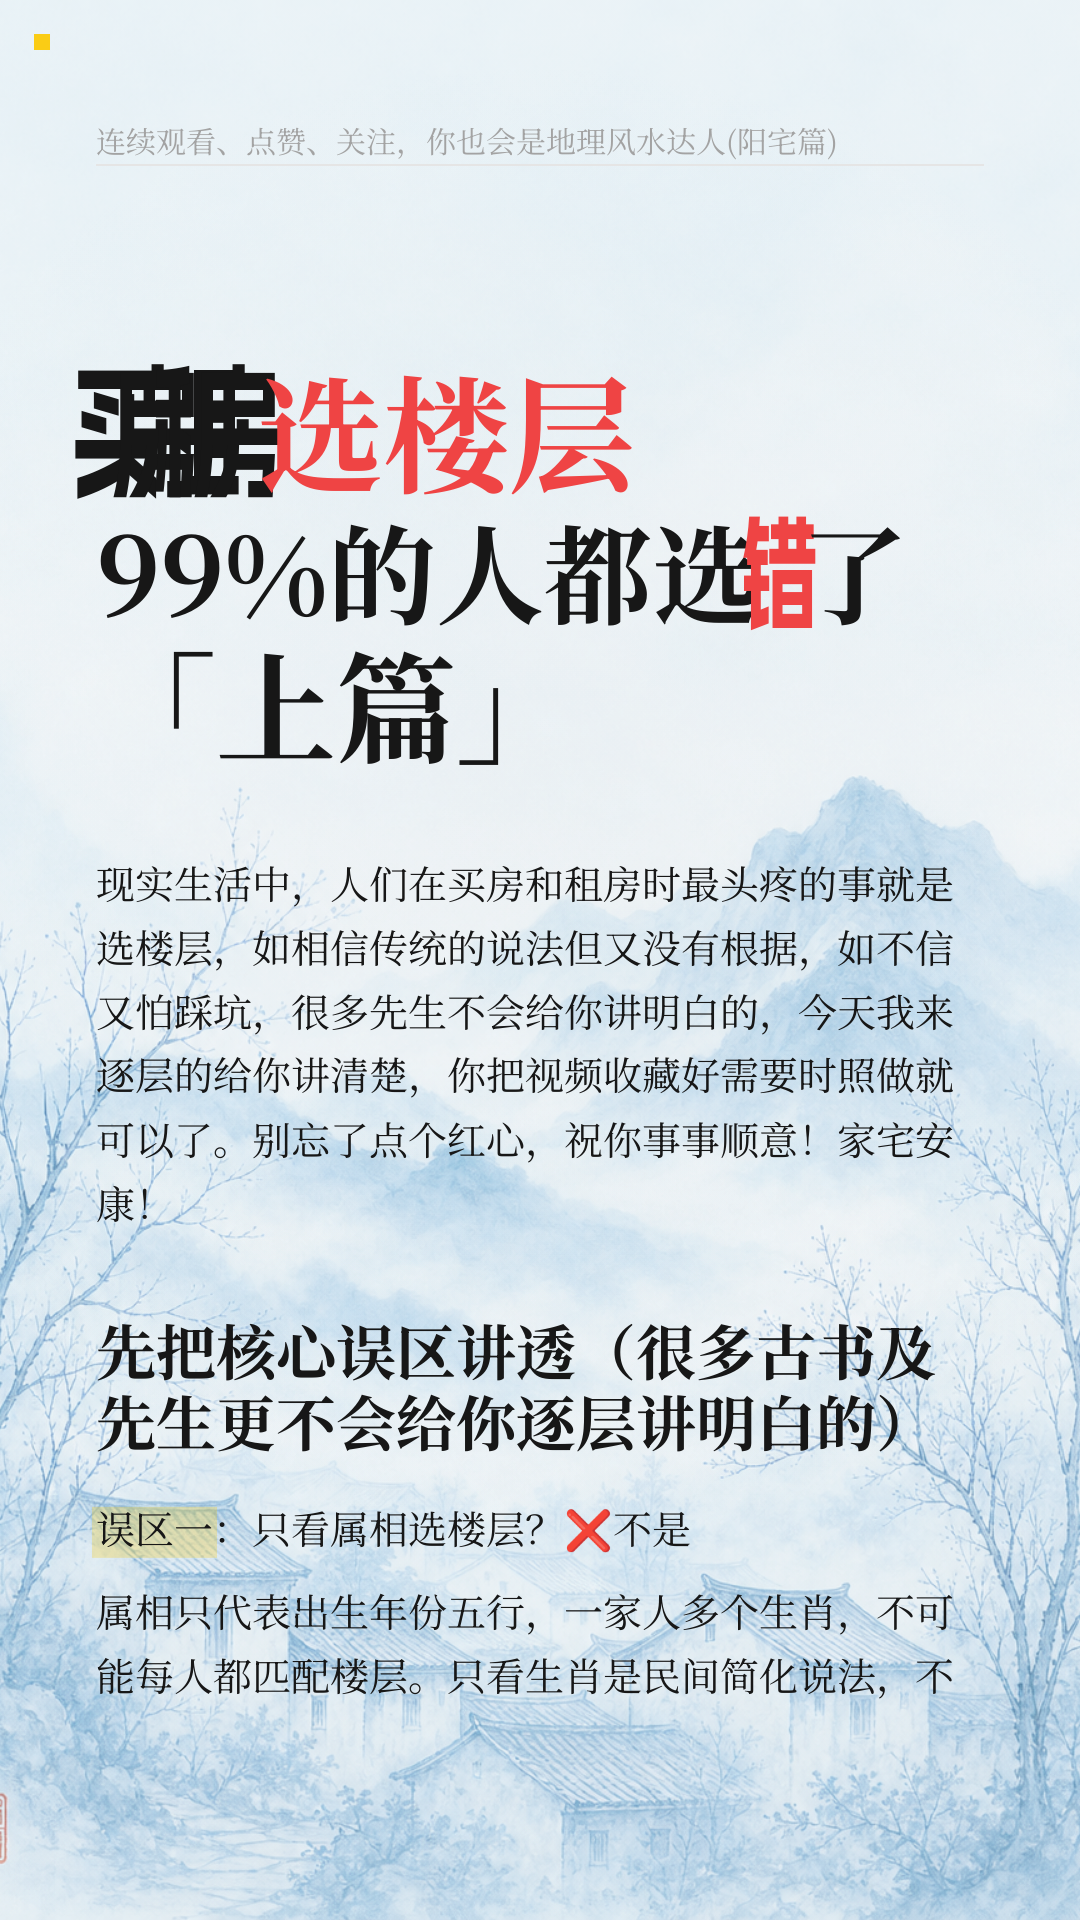
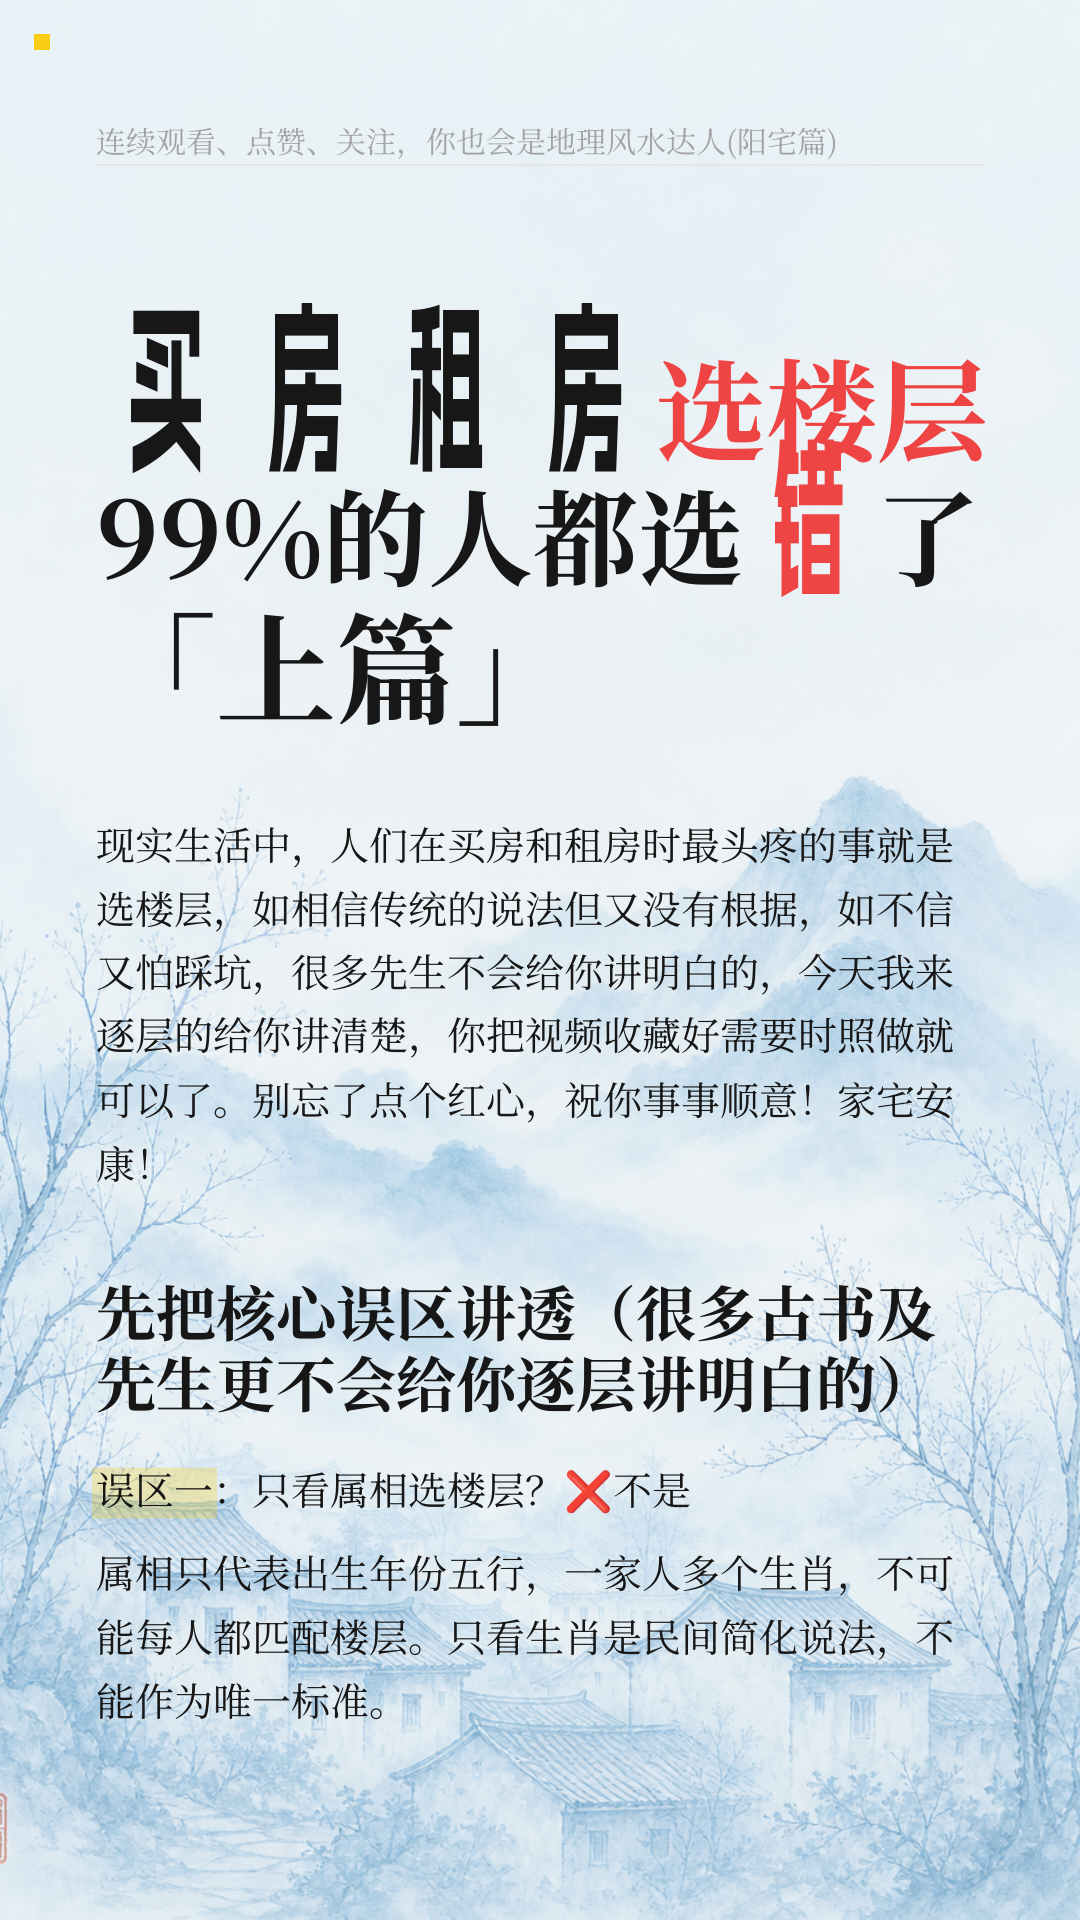
fix(graphic-text): 修复标题强调字叠字与字距，加大纵向拉伸
- measureText 为 0 时回退，避免 scale 字全部叠在一起
- 强调字两侧加空隙，缩字号测量计入 scale/gap
- scaleY 提到 1.65，更易看出纵向拉高

Changed region(s): [[0.0611, 0.4375, 0.8861, 0.9062], [0.0611, 0.1562, 0.9167, 0.4062], [0.825, 0.8125, 0.8861, 0.875]]

diff --git a/src/features/graphic-text/exportGraphicPages.ts b/src/features/graphic-text/exportGraphicPages.ts
@@ -19,7 +19,7 @@ import type { GraphicTextConfig, GraphicTextPage, MarkdownBlock } from './types'
 import { getFontById } from '../../data/fonts'
 import { ensureFontReady } from '../../utils/fontLoad'
 import { buildCharHighlightColorSegments, stripHighlightMarkers, themeAlpha } from './inlineHighlight'
-import { parseGlyphEmphasis } from './glyphEmphasis'
+import { parseGlyphEmphasis, GLYPH_EMPHASIS_SIDE_GAP_RATIO } from './glyphEmphasis'
 import { blockHasHighlightInMap, resolveBlockHighlightColor } from './highlightColors'
 import { TOP_BAR_FONT_SIZE_PX } from './graphicPreviewLayout'
 import {
@@ -82,20 +82,32 @@ interface LineSegment {
 function measureGlyphAdvance(
   ctx: CanvasRenderingContext2D,
   char: string,
-  baseFont: string,
+  fontSize: number,
   emphasisRaw: string | undefined,
 ) {
   const emphasis = parseGlyphEmphasis(emphasisRaw)
   if (!emphasis) return ctx.measureText(char).width
+
   const prev = ctx.font
-  // baseFont like `700 56px "Noto Serif SC", serif`
-  const weightSize = prev.match(/^(\d+)\s+([\d.]+)px\s+/) 
+  const weightSize = prev.match(/^(\d+)\s+([\d.]+)px\s+/)
   const weight = weightSize?.[1] ?? '700'
-  const size = weightSize?.[2] ?? '56'
-  ctx.font = `${weight} ${size}px ${emphasis.fontFamily}`
-  const w = ctx.measureText(char).width * emphasis.scaleX
+  const sizePx = Number(weightSize?.[2] ?? fontSize)
+
+  // 先用强调字体量自然宽；失败（字体未就绪常为 0）则回退到当前字体 / 字号
+  ctx.font = `${weight} ${sizePx}px ${emphasis.fontFamily}`
+  let natural = ctx.measureText(char).width
+  if (!(natural > 1)) {
+    ctx.font = prev
+    natural = ctx.measureText(char).width
+  }
+  if (!(natural > 1)) {
+    natural = sizePx // CJK 全角近似
+  }
   ctx.font = prev
-  return w
+
+  const visual = natural * emphasis.scaleX
+  const sideGap = sizePx * GLYPH_EMPHASIS_SIDE_GAP_RATIO
+  return visual + sideGap * 2
 }
 
 function drawStyledLine(
@@ -130,9 +142,8 @@ function drawStyledLine(
   const baseFont = ctx.font
 
   const charAdvances = chars.map((char, i) =>
-    measureGlyphAdvance(ctx, char, baseFont, glyphEmphasis[`${blockId}:${charOffset + i}`]),
+    measureGlyphAdvance(ctx, char, fontSize, glyphEmphasis[`${blockId}:${charOffset + i}`]),
   )
-  const totalWidth = charAdvances.reduce((a, b) => a + b, 0)
 
   if (enableHighlight) {
     // brush backgrounds: walk chars for accurate emphasis widths
@@ -156,10 +167,7 @@ function drawStyledLine(
 
   // Draw text char-by-char when emphasis or per-char colors present
   if (hasEmphasis || (enableHighlight && textColorSegments.some((segment) => segment.color))) {
-    const colorAt: (string | null)[] = chars.map((_, i) => {
-      // rebuild from segments
-      return null
-    })
+    const colorAt: (string | null)[] = chars.map(() => null)
     let ci = 0
     for (const segment of textColorSegments) {
       for (const _ch of segment.text) {
@@ -174,23 +182,28 @@ function drawStyledLine(
       const emphasis = parseGlyphEmphasis(glyphEmphasis[key])
       const fill = (enableHighlight && colorAt[i]) || textColor
       ctx.fillStyle = fill
+      const advance = charAdvances[i]
       if (emphasis) {
         const weightSize = baseFont.match(/^(\d+)\s+([\d.]+)px\s+/)
         const weight = weightSize?.[1] ?? '700'
         const sizePx = Number(weightSize?.[2] ?? fontSize)
+        const sideGap = sizePx * GLYPH_EMPHASIS_SIDE_GAP_RATIO
+        const visualCenterX = drawX + sideGap + (advance - sideGap * 2) / 2
         ctx.save()
-        ctx.translate(drawX + (charAdvances[i] / 2), baselineY)
+        ctx.translate(visualCenterX, baselineY)
         ctx.scale(emphasis.scaleX, emphasis.scaleY)
         ctx.font = `${weight} ${sizePx}px ${emphasis.fontFamily}`
         ctx.textAlign = 'center'
+        ctx.textBaseline = 'alphabetic'
         ctx.fillText(char, 0, 0)
         ctx.restore()
         ctx.font = baseFont
         ctx.textAlign = 'left'
+        ctx.textBaseline = 'alphabetic'
       } else {
         ctx.fillText(char, drawX, baselineY)
       }
-      drawX += charAdvances[i]
+      drawX += advance
     }
   } else {
     ctx.fillStyle = textColor
@@ -610,11 +623,17 @@ export async function exportGraphicPages(
 ) {
   const fontIds = collectGraphicFontIds(config)
   const sample = pages.flatMap((page) => page.blocks.map((block) => block.text)).join('')
+  const emphasisSample = '买房租房错选楼层'
   for (const fontId of fontIds) {
     const font = getFontById(fontId)
     if (font.source !== 'system') {
-      await ensureFontReady(font, sample || font.sample)
+      await ensureFontReady(font, `${sample}${emphasisSample}` || font.sample)
     }
+  }
+  // 强调字常用数黑体：再确保一次 glyph 可用，避免 measureText 得到 0 导致叠字
+  const shuheiti = getFontById('shuheiti')
+  if (shuheiti?.source !== 'system') {
+    await ensureFontReady(shuheiti, emphasisSample)
   }
 
   const blobs: Blob[] = []

diff --git a/src/features/graphic-text/layout.ts b/src/features/graphic-text/layout.ts
@@ -8,7 +8,7 @@ import { DEFAULT_IMAGE_MARGIN, parseScopedMarkdown } from './document'
 import { getFontConfigForStyleType } from './graphicTextFonts'
 import { measureImageLayoutSize } from './imageAsset'
 import { stripHighlightMarkers } from './inlineHighlight'
-import { stripTitleBreakMarkers, titlePlainText } from './glyphEmphasis'
+import { stripTitleBreakMarkers, titlePlainText, parseGlyphEmphasis, GLYPH_EMPHASIS_SIDE_GAP_RATIO } from './glyphEmphasis'
 import {
   CODE_HORIZONTAL_PADDING_SCALE,
   estimateCodeLineWidth,
@@ -377,16 +377,38 @@ function blockToLayoutLines(
       let size = blockFontSize(sentenceBlock, config, layout.exportScale)
 
       // 显式换行：禁止再按宽度折行；若超宽则缩小该行字号以单行放下
+      // 测量须计入 glyphEmphasis 的 scaleX + 侧向空隙，否则缩完仍会挤在一起
       let wrapped: string[]
       if (explicitBreaks) {
         if (typeof document !== 'undefined') {
           const ctx = document.createElement('canvas').getContext('2d')
           if (ctx) {
             const primary = fontFamily.replace(/"/g, '').split(',')[0].trim()
+            const emphasisMap = config.glyphEmphasis ?? {}
+            const measureLine = (fitPx: number) => {
+              let total = 0
+              const chars = [...sentence]
+              for (let i = 0; i < chars.length; i += 1) {
+                const key = `${block.id}:${charOffset + i}`
+                const emphasis = parseGlyphEmphasis(emphasisMap[key])
+                if (emphasis) {
+                  ctx.font = `${fontWeight} ${fitPx}px ${emphasis.fontFamily}`
+                  let natural = ctx.measureText(chars[i]).width
+                  if (!(natural > 1)) {
+                    ctx.font = `${fontWeight} ${fitPx}px ${primary}`
+                    natural = ctx.measureText(chars[i]).width || fitPx
+                  }
+                  total += natural * emphasis.scaleX + fitPx * GLYPH_EMPHASIS_SIDE_GAP_RATIO * 2
+                } else {
+                  ctx.font = `${fontWeight} ${fitPx}px ${primary}`
+                  total += ctx.measureText(chars[i]).width
+                }
+              }
+              return total
+            }
             let fit = size
             while (fit > 24 * layout.exportScale) {
-              ctx.font = `${fontWeight} ${fit}px ${primary}`
-              if (ctx.measureText(sentence).width <= availableWidth + 6) break
+              if (measureLine(fit) <= availableWidth + 6) break
               fit -= layout.exportScale
             }
             if (fit < size) {

diff --git a/src/features/graphic-text/InteractiveHighlightedText.tsx b/src/features/graphic-text/InteractiveHighlightedText.tsx
@@ -60,11 +60,13 @@ function InteractiveChar({
           transform: `scale(${emphasis.scaleX}, ${emphasis.scaleY})`,
           transformOrigin: 'center center',
           display: 'inline-block',
-          // 布局宽按未缩放字宽，再用负 margin 收回 scaleX 多出的空隙，避免压到后字
-          width: '1em',
-          marginLeft: `${(emphasis.scaleX - 1) / 2}em`,
-          marginRight: `${(emphasis.scaleX - 1) / 2}em`,
+          // transform 不占布局：用 width≈视觉宽 + 左右 padding 留出字距
+          width: `${emphasis.scaleX}em`,
+          paddingLeft: '0.28em',
+          paddingRight: '0.28em',
+          boxSizing: 'content-box',
           textAlign: 'center' as const,
+          verticalAlign: 'baseline',
         }
       : null),
   }

diff --git a/src/features/graphic-text/GraphicPage.tsx b/src/features/graphic-text/GraphicPage.tsx
@@ -305,10 +305,12 @@ function BrushUnderlineSegments({
                     transform: `scale(${emphasis.scaleX}, ${emphasis.scaleY})`,
                     transformOrigin: 'center center',
                     display: 'inline-block',
-                    width: '1em',
-                    marginLeft: `${(emphasis.scaleX - 1) / 2}em`,
-                    marginRight: `${(emphasis.scaleX - 1) / 2}em`,
+                    width: `${emphasis.scaleX}em`,
+                    paddingLeft: '0.28em',
+                    paddingRight: '0.28em',
+                    boxSizing: 'content-box',
                     textAlign: 'center' as const,
+                    verticalAlign: 'baseline',
                   }
                 : null),
             }}

diff --git a/src/features/graphic-text/glyphEmphasis.ts b/src/features/graphic-text/glyphEmphasis.ts
@@ -8,9 +8,14 @@ export interface GlyphEmphasisStyle {
 
 export const DEFAULT_GLYPH_EMPHASIS: GlyphEmphasisStyle = {
   fontFamily: '"Alimama ShuHeiTi", sans-serif',
-  scaleX: 0.72,
-  scaleY: 1.15,
+  scaleX: 0.7,
+  /** 纵向拉高，需一眼能看出变高 */
+  scaleY: 1.65,
 }
+
+/** 强调字两侧额外空隙（相对字号）；含与邻字的呼吸距离 */
+export const GLYPH_EMPHASIS_SIDE_GAP_RATIO = 0.28
+
 
 /** 序列化：fontFamily||scaleX||scaleY */
 export function encodeGlyphEmphasis(style: GlyphEmphasisStyle): string {
